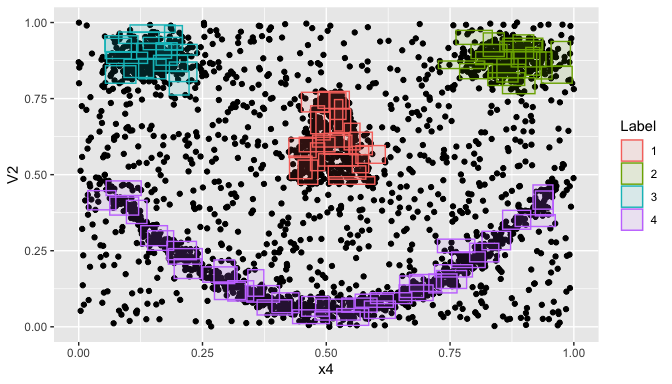
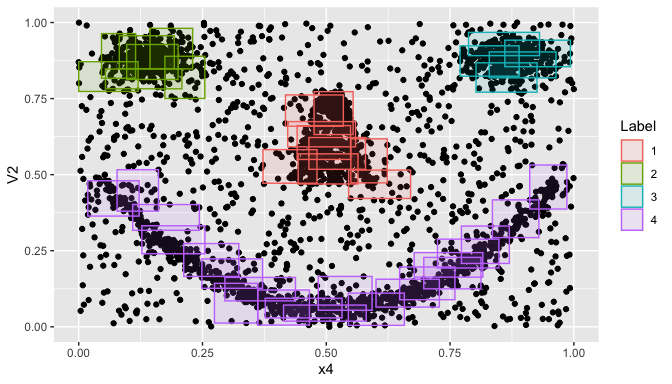
Updated readme files.

diff --git a/README.md b/README.md
@@ -75,6 +75,8 @@ generalization.
 Here is an example of using Fuzzy ART to cluster different shapes:
 
 ``` r
+library(mlbench)
+library(rART)
 trainShapes <- mlbench.shapes(n = 5000)
 trainShapes$x <- normalize(trainShapes$x)
 art <- ART(rule = "fuzzy", dimension = 2, vigilance = 0.93) # create an ART object
@@ -97,18 +99,20 @@ Here is a circle-in-a-square classification problem solved with the
 simplified Fuzzy ARTMAP:
 
 ``` r
+library(mlbench)
+library(rART)
 # circle in a square
 trainCirSquare <- mlbench.circle(n = 10000)
 testCirSquare <- mlbench.circle(n = 1000)
 artmap <- ARTMAP(rule = "fuzzy", dimension = 2, vigilance = 0.8)
-train(artmap, trainCirSquare$x, as.numeric(trainCirSquare$classes))
-plot(artmap, .data = trainCirSquare$x, classes = trainCirSquare$classes) # create the 2 dimensional plot of the data and the weights
+train(artmap, normalize(trainCirSquare$x), as.numeric(trainCirSquare$classes))
+plot(artmap, .data = normalize(trainCirSquare$x), classes = trainCirSquare$classes) # create the 2 dimensional plot of the data and the weights
 ```
 
 ![](README_files/figure-gfm/unnamed-chunk-4-1.png)<!-- -->
 
 ``` r
-p <- predict(artmap, .data = testCirSquare$x, target = as.numeric(testCirSquare$classes))
+p <- predict(artmap, .data = normalize(testCirSquare$x), target = as.numeric(testCirSquare$classes))
 sum(p$matched)/length(p$matched) * 100 # percent correct
 #> [1] 98.4
 ```
@@ -121,6 +125,8 @@ dummy codes. The function encodeLabel() converts all the target labels
 into dummy codes using this dummy code map.
 
 ``` r
+library(mlbench)
+library(rART)
 # circle in a square
 trainCirSquare <- mlbench.circle(n = 10000)
 testCirSquare <- mlbench.circle(n = 1000)
@@ -128,16 +134,16 @@ artmap <- ARTMAP(rule = "fuzzy", dimension = 2, vigilance = 0.9, simplified = FA
 dummyMap <- createDummyCodeMap(unique(trainCirSquare$classes))
 trainCirSquare$dummyClasses <- encodeLabel(trainCirSquare$classes, dummyMap)
 testCirSquare$dummyClasses <- encodeLabel(testCirSquare$classes, dummyMap)
-train(artmap, trainCirSquare$x, trainCirSquare$dummyClasses)
-plot(artmap, .data = trainCirSquare$x, classes = trainCirSquare$dummyClasses, dummyCodeMap = dummyMap) # create the 2 dimensional plot of the data and the weights
+train(artmap, normalize(trainCirSquare$x), trainCirSquare$dummyClasses)
+plot(artmap, .data = normalize(trainCirSquare$x), classes = trainCirSquare$dummyClasses, dummyCodeMap = dummyMap) # create the 2 dimensional plot of the data and the weights
 ```
 
 ![](README_files/figure-gfm/unnamed-chunk-5-1.png)<!-- -->
 
 ``` r
-p <- predict(artmap, .data = testCirSquare$x, target = testCirSquare$dummyClasses)
+p <- predict(artmap, .data = normalize(testCirSquare$x), target = testCirSquare$dummyClasses)
 sum(p$matched, na.rm = T)/length(p$matched) * 100 # percent correct
-#> [1] 96.8
+#> [1] 98.3
 ```
 
 The standard ARTMAP is better suited for regression
@@ -145,6 +151,7 @@ problems<sup>2</sup>. Below is an example that uses the standard Fuzzy
 ARTMAP to approximate a sinusoidal function:
 
 ``` r
+library(rART)
 x = seq(0, 1, by = 0.001)
 y <- (sin(2*pi*x))^2
 fn <- cbind(x = x, y = y) # function to be approximated
@@ -190,9 +197,10 @@ size in module 1. The user can specify which module to plot by entering
 the id number (0 for the first module and 1 for the second module).
 
 ``` r
+library(rART)
 # smiley face
 data(noisySmiley)
-topoart <- TopoART(rule = "fuzzy", dimension = 2, vigilance = 0.88, tau = 200, phi = 5)
+topoart <- TopoART(rule = "fuzzy", dimension = 2, vigilance = 0.78, tau = 200, phi = 6)
 train(topoart, noisySmiley)
 plot(topoart, id = 0, noisySmiley) # the ART a module
 ```
